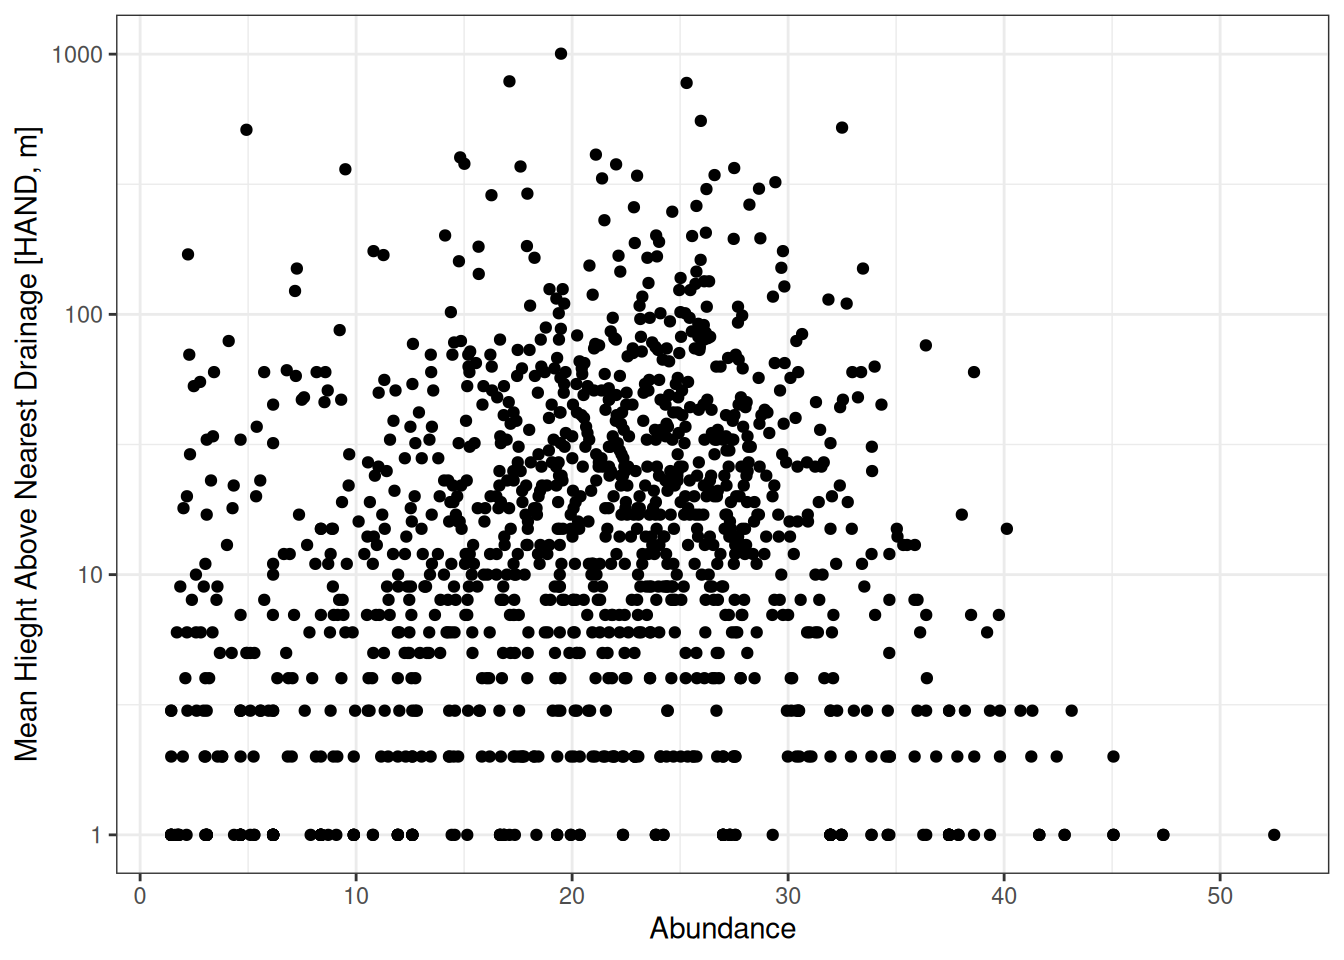
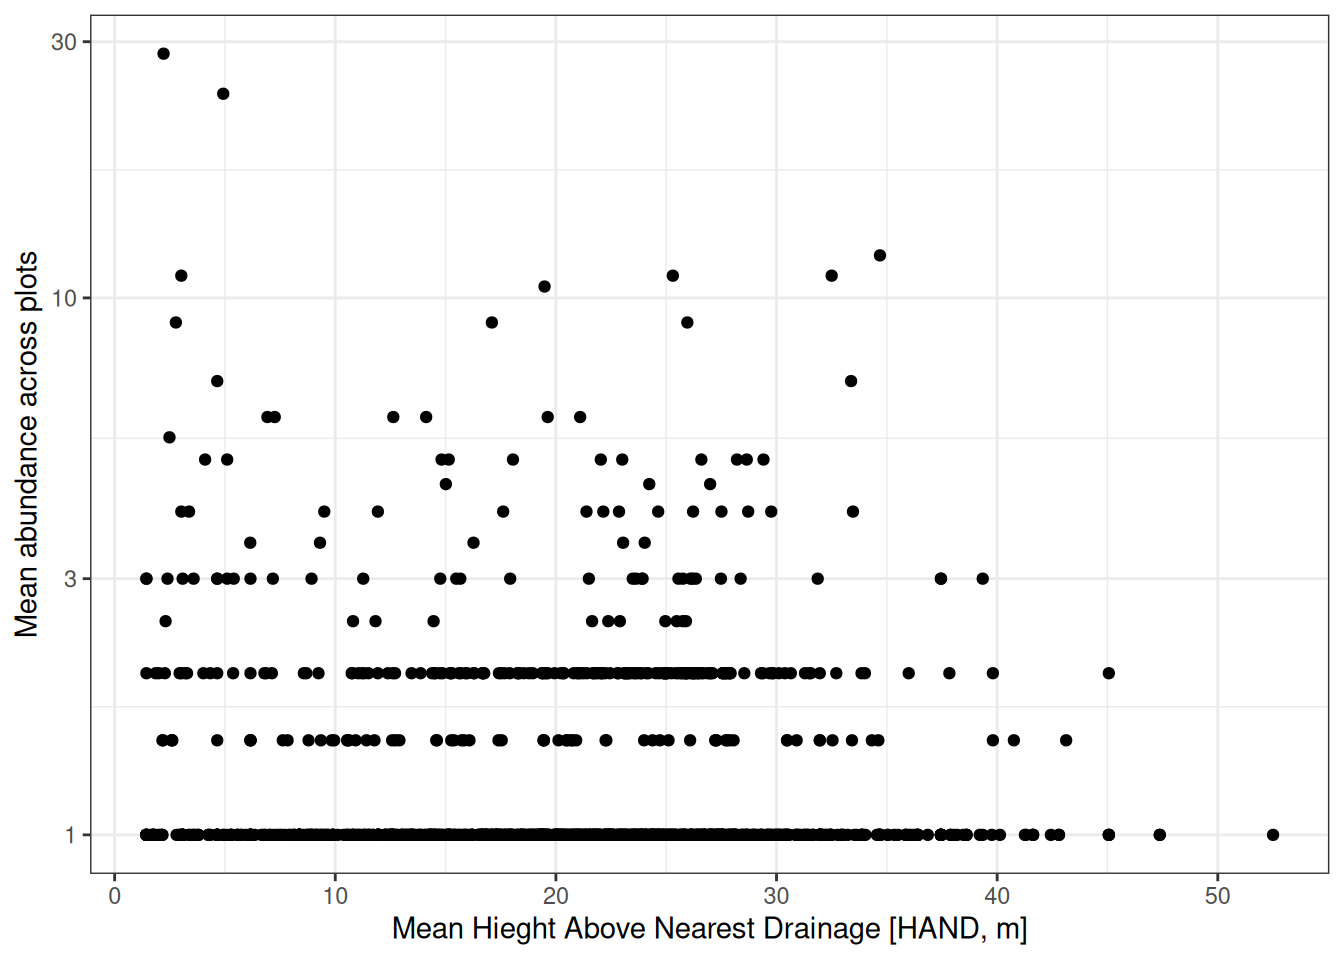
Ducke per plot

diff --git a/docs/11_Ducke.html b/docs/11_Ducke.html
@@ -223,12 +223,12 @@ pre > code.sourceCode > span > a:first-child::before { text-decoration: underlin
 <details>
 <summary>Code</summary>
 <div class="sourceCode cell-code" id="cb2"><pre class="sourceCode r code-with-copy"><code class="sourceCode r"><span id="cb2-1"><a href="#cb2-1" aria-hidden="true" tabindex="-1"></a>trees <span class="sc">%&gt;%</span> </span>
-<span id="cb2-2"><a href="#cb2-2" aria-hidden="true" tabindex="-1"></a>  <span class="fu">group_by</span>(genus, species) <span class="sc">%&gt;%</span> </span>
+<span id="cb2-2"><a href="#cb2-2" aria-hidden="true" tabindex="-1"></a>  <span class="fu">group_by</span>(plot, genus, species) <span class="sc">%&gt;%</span> </span>
 <span id="cb2-3"><a href="#cb2-3" aria-hidden="true" tabindex="-1"></a>  <span class="fu">summarise</span>(<span class="at">abundance =</span> <span class="fu">n</span>()) <span class="sc">%&gt;%</span> </span>
 <span id="cb2-4"><a href="#cb2-4" aria-hidden="true" tabindex="-1"></a>  <span class="fu">arrange</span>(<span class="fu">desc</span>(abundance)) <span class="sc">%&gt;%</span> </span>
-<span id="cb2-5"><a href="#cb2-5" aria-hidden="true" tabindex="-1"></a>  <span class="fu">ungroup</span>() <span class="sc">%&gt;%</span> </span>
+<span id="cb2-5"><a href="#cb2-5" aria-hidden="true" tabindex="-1"></a>  <span class="fu">group_by</span>(plot) <span class="sc">%&gt;%</span> </span>
 <span id="cb2-6"><a href="#cb2-6" aria-hidden="true" tabindex="-1"></a>  <span class="fu">mutate</span>(<span class="at">rank =</span> <span class="dv">1</span><span class="sc">:</span><span class="fu">n</span>()) <span class="sc">%&gt;%</span> </span>
-<span id="cb2-7"><a href="#cb2-7" aria-hidden="true" tabindex="-1"></a>  <span class="fu">ggplot</span>(<span class="fu">aes</span>(rank, abundance)) <span class="sc">+</span></span>
+<span id="cb2-7"><a href="#cb2-7" aria-hidden="true" tabindex="-1"></a>  <span class="fu">ggplot</span>(<span class="fu">aes</span>(rank, abundance, <span class="at">group =</span> plot)) <span class="sc">+</span></span>
 <span id="cb2-8"><a href="#cb2-8" aria-hidden="true" tabindex="-1"></a>  <span class="fu">geom_line</span>() <span class="sc">+</span></span>
 <span id="cb2-9"><a href="#cb2-9" aria-hidden="true" tabindex="-1"></a>  <span class="fu">theme_bw</span>() <span class="sc">+</span></span>
 <span id="cb2-10"><a href="#cb2-10" aria-hidden="true" tabindex="-1"></a>  <span class="fu">scale_y_log10</span>() <span class="sc">+</span></span>
@@ -249,15 +249,17 @@ pre > code.sourceCode > span > a:first-child::before { text-decoration: underlin
 <details>
 <summary>Code</summary>
 <div class="sourceCode cell-code" id="cb3"><pre class="sourceCode r code-with-copy"><code class="sourceCode r"><span id="cb3-1"><a href="#cb3-1" aria-hidden="true" tabindex="-1"></a>trees <span class="sc">%&gt;%</span> </span>
-<span id="cb3-2"><a href="#cb3-2" aria-hidden="true" tabindex="-1"></a>  <span class="fu">group_by</span>(genus, species) <span class="sc">%&gt;%</span> </span>
+<span id="cb3-2"><a href="#cb3-2" aria-hidden="true" tabindex="-1"></a>  <span class="fu">group_by</span>(plot, genus, species) <span class="sc">%&gt;%</span> </span>
 <span id="cb3-3"><a href="#cb3-3" aria-hidden="true" tabindex="-1"></a>  <span class="fu">summarise</span>(<span class="at">abundance =</span> <span class="fu">n</span>()) <span class="sc">%&gt;%</span> </span>
-<span id="cb3-4"><a href="#cb3-4" aria-hidden="true" tabindex="-1"></a>  <span class="fu">left_join</span>(env) <span class="sc">%&gt;%</span> </span>
-<span id="cb3-5"><a href="#cb3-5" aria-hidden="true" tabindex="-1"></a>  <span class="fu">ggplot</span>(<span class="fu">aes</span>(hand, abundance)) <span class="sc">+</span></span>
-<span id="cb3-6"><a href="#cb3-6" aria-hidden="true" tabindex="-1"></a>  <span class="fu">geom_point</span>() <span class="sc">+</span></span>
-<span id="cb3-7"><a href="#cb3-7" aria-hidden="true" tabindex="-1"></a>  <span class="fu">theme_bw</span>() <span class="sc">+</span></span>
-<span id="cb3-8"><a href="#cb3-8" aria-hidden="true" tabindex="-1"></a>  <span class="fu">scale_y_log10</span>() <span class="sc">+</span></span>
-<span id="cb3-9"><a href="#cb3-9" aria-hidden="true" tabindex="-1"></a>  <span class="fu">xlab</span>(<span class="st">"Abundance"</span>) <span class="sc">+</span></span>
-<span id="cb3-10"><a href="#cb3-10" aria-hidden="true" tabindex="-1"></a>  <span class="fu">ylab</span>(<span class="st">"Mean Hieght Above Nearest Drainage [HAND, m]"</span>)</span></code><button title="Copy to Clipboard" class="code-copy-button"><i class="bi"></i></button></pre></div>
+<span id="cb3-4"><a href="#cb3-4" aria-hidden="true" tabindex="-1"></a>  <span class="fu">group_by</span>(genus, species) <span class="sc">%&gt;%</span> </span>
+<span id="cb3-5"><a href="#cb3-5" aria-hidden="true" tabindex="-1"></a>  <span class="fu">summarise</span>(<span class="at">abundance =</span> <span class="fu">median</span>(abundance)) <span class="sc">%&gt;%</span> </span>
+<span id="cb3-6"><a href="#cb3-6" aria-hidden="true" tabindex="-1"></a>  <span class="fu">left_join</span>(env) <span class="sc">%&gt;%</span> </span>
+<span id="cb3-7"><a href="#cb3-7" aria-hidden="true" tabindex="-1"></a>  <span class="fu">ggplot</span>(<span class="fu">aes</span>(hand, abundance)) <span class="sc">+</span></span>
+<span id="cb3-8"><a href="#cb3-8" aria-hidden="true" tabindex="-1"></a>  <span class="fu">geom_point</span>() <span class="sc">+</span></span>
+<span id="cb3-9"><a href="#cb3-9" aria-hidden="true" tabindex="-1"></a>  <span class="fu">theme_bw</span>() <span class="sc">+</span></span>
+<span id="cb3-10"><a href="#cb3-10" aria-hidden="true" tabindex="-1"></a>  <span class="fu">scale_y_log10</span>() <span class="sc">+</span></span>
+<span id="cb3-11"><a href="#cb3-11" aria-hidden="true" tabindex="-1"></a>  <span class="fu">xlab</span>(<span class="st">"Mean Hieght Above Nearest Drainage [HAND, m]"</span>) <span class="sc">+</span></span>
+<span id="cb3-12"><a href="#cb3-12" aria-hidden="true" tabindex="-1"></a>  <span class="fu">ylab</span>(<span class="st">"Mean abundance across plots"</span>)</span></code><button title="Copy to Clipboard" class="code-copy-button"><i class="bi"></i></button></pre></div>
 </details>
 <div class="cell-output-display">
 <div class="quarto-figure quarto-figure-center">
